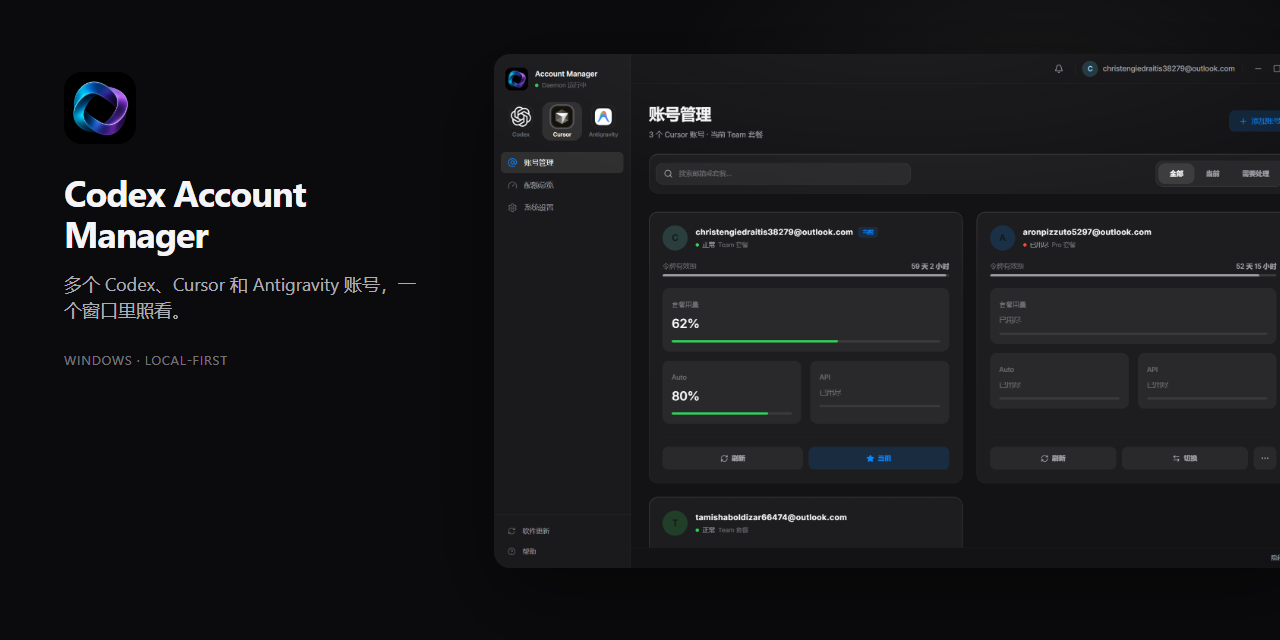
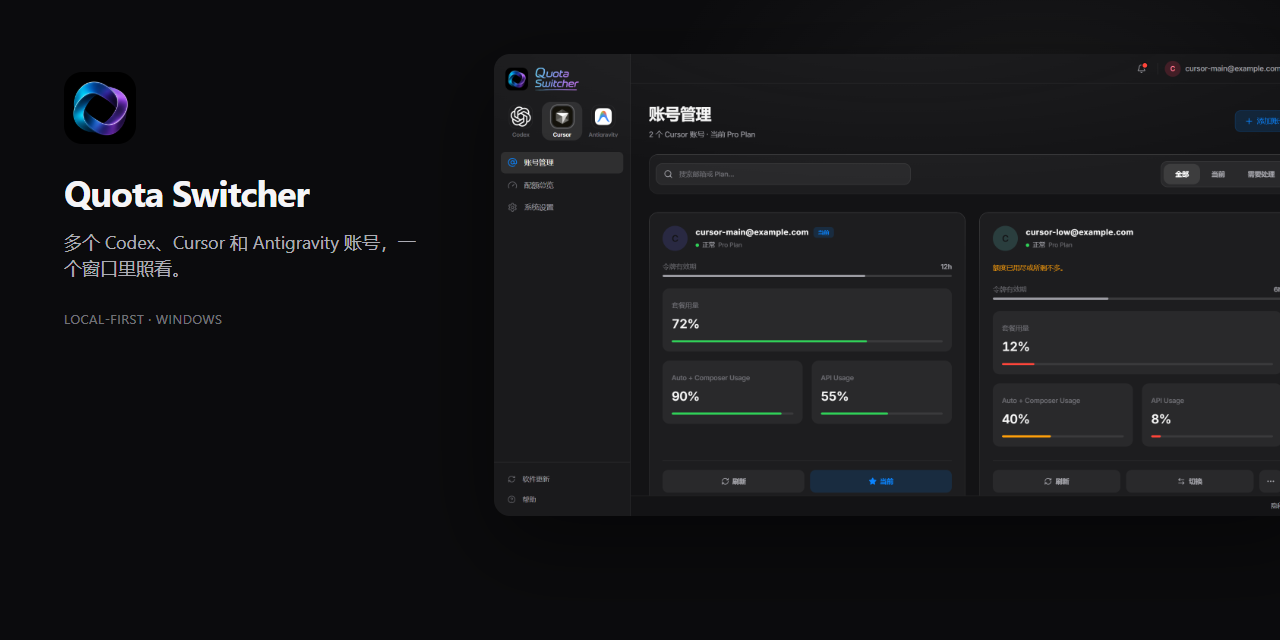
Refresh README screenshots for the 2.0 wordmark.
The mock preview now shows 2.0.0 and Cursor Auto + Composer Usage labels.

diff --git a/scripts/capture-readme-images.js b/scripts/capture-readme-images.js
@@ -23,6 +23,7 @@ async function openPage(browser, url, ready) {
     if (auth) {
       localStorage.setItem("codex_auth_status", "true");
       localStorage.setItem("codex_auth_email", "ops-01-primary@codex.local");
+      localStorage.setItem("cam_product", "cursor");
     } else {
       localStorage.removeItem("codex_auth_status");
       localStorage.removeItem("codex_auth_email");
@@ -45,22 +46,44 @@ async function save(page, name, options) {
   console.log(`wrote ${name}`);
 }
 
+async function selectProduct(page, id) {
+  const button = page.locator(`#sidebar-product-${id}`);
+  if (await button.count()) {
+    await button.click();
+    await page.waitForTimeout(400);
+  }
+}
+
 async function captureAppPages(browser) {
   const page = await openPage(browser, `${baseUrl}/`, "dashboard");
   await page.waitForSelector("#dashboard-main-container");
   await page.waitForTimeout(400);
 
-  const shots = [
-    ["accounts", "account-dashboard.png"],
-    ["quotas", "quota-overview.png"],
-    ["autoswitch", "auto-switch.png"],
-    ["settings", "settings.png"],
-  ];
-  for (const [tab, file] of shots) {
-    await page.click(`#sidebar-nav-${tab}`);
-    await page.waitForTimeout(250);
-    await save(page, file, { fullPage: false });
-  }
+  await selectProduct(page, "cursor");
+  await page.click("#sidebar-nav-accounts");
+  await page.waitForTimeout(250);
+  await save(page, "account-dashboard.png", { fullPage: false });
+
+  await page.click("#sidebar-nav-quotas");
+  await page.waitForTimeout(250);
+  await save(page, "quota-overview.png", { fullPage: false });
+
+  await selectProduct(page, "codex");
+  await page.click("#sidebar-nav-accounts");
+  await page.waitForTimeout(250);
+  await save(page, "codex-accounts.png", { fullPage: false });
+
+  await page.click("#sidebar-nav-autoswitch");
+  await page.waitForTimeout(250);
+  await page.evaluate(() => {
+    const banner = document.querySelector("#autoswitch-log-banner");
+    if (banner) banner.style.display = "none";
+  });
+  await save(page, "auto-switch.png", { fullPage: false });
+
+  await page.click("#sidebar-nav-settings");
+  await page.waitForTimeout(250);
+  await save(page, "settings.png", { fullPage: false });
   await page.close();
 }
 

diff --git a/src/renderer-react/data/mockData.ts b/src/renderer-react/data/mockData.ts
@@ -283,7 +283,7 @@ export const INITIAL_SETTINGS: SystemSettings = {
   cursorDetected: true,
   antigravityDetected: true,
   updateChannel: 'Stable Channel',
-  version: '1.0.0',
+  version: '2.0.0',
   latestStatus: 'Up to date',
 };
 
